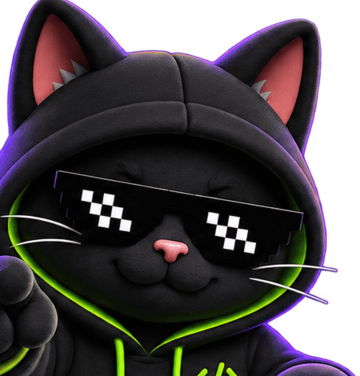
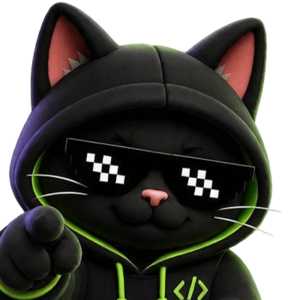
Мини-аватар: голова кота из полноростового рендера (чище, по центру, 300px)

diff --git a/frontend/index.html b/frontend/index.html
@@ -5,7 +5,7 @@
 <meta name="viewport" content="width=device-width, initial-scale=1.0, viewport-fit=cover">
 <title>Профик Arena</title>
 <script async src="https://telegram.org/js/telegram-web-app.js"></script>
-<link rel="stylesheet" href="/style.css?v=58">
+<link rel="stylesheet" href="/style.css?v=59">
 </head>
 <body>
 
@@ -2102,6 +2102,6 @@
   </div>
 </div>
 
-<script src="/script.js?v=58"></script>
+<script src="/script.js?v=59"></script>
 </body>
 </html>

diff --git a/backend/main.py b/backend/main.py
@@ -1877,7 +1877,7 @@ async def python_session_end(payload: dict = Body(...)):
 
 
 # ---------- Версия сборки (для проверки, что задеплоилось) ----------
-BUILD_TAG = "mascot-png-v60"
+BUILD_TAG = "mascot-head-v61"
 
 
 @app.get("/api/version")
